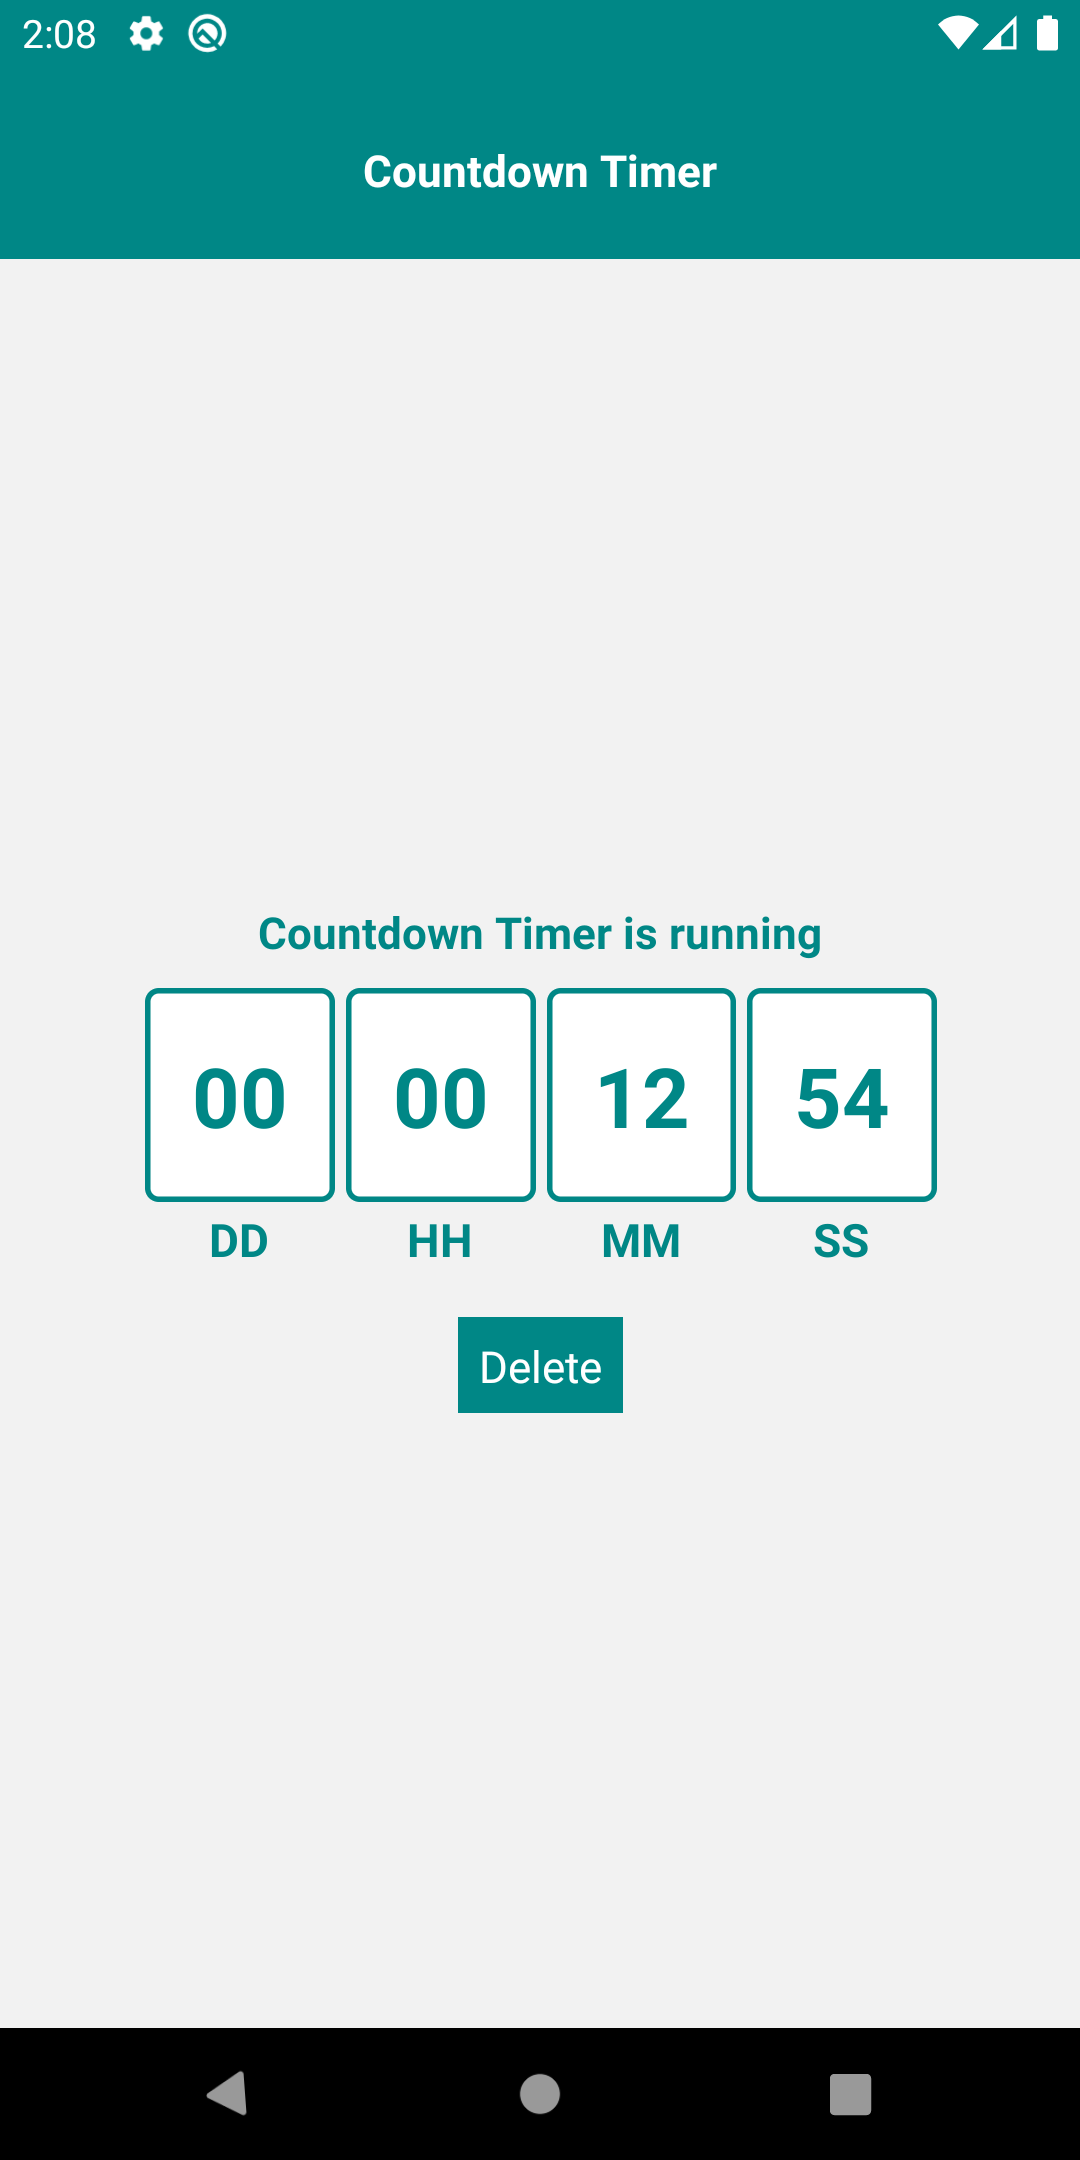
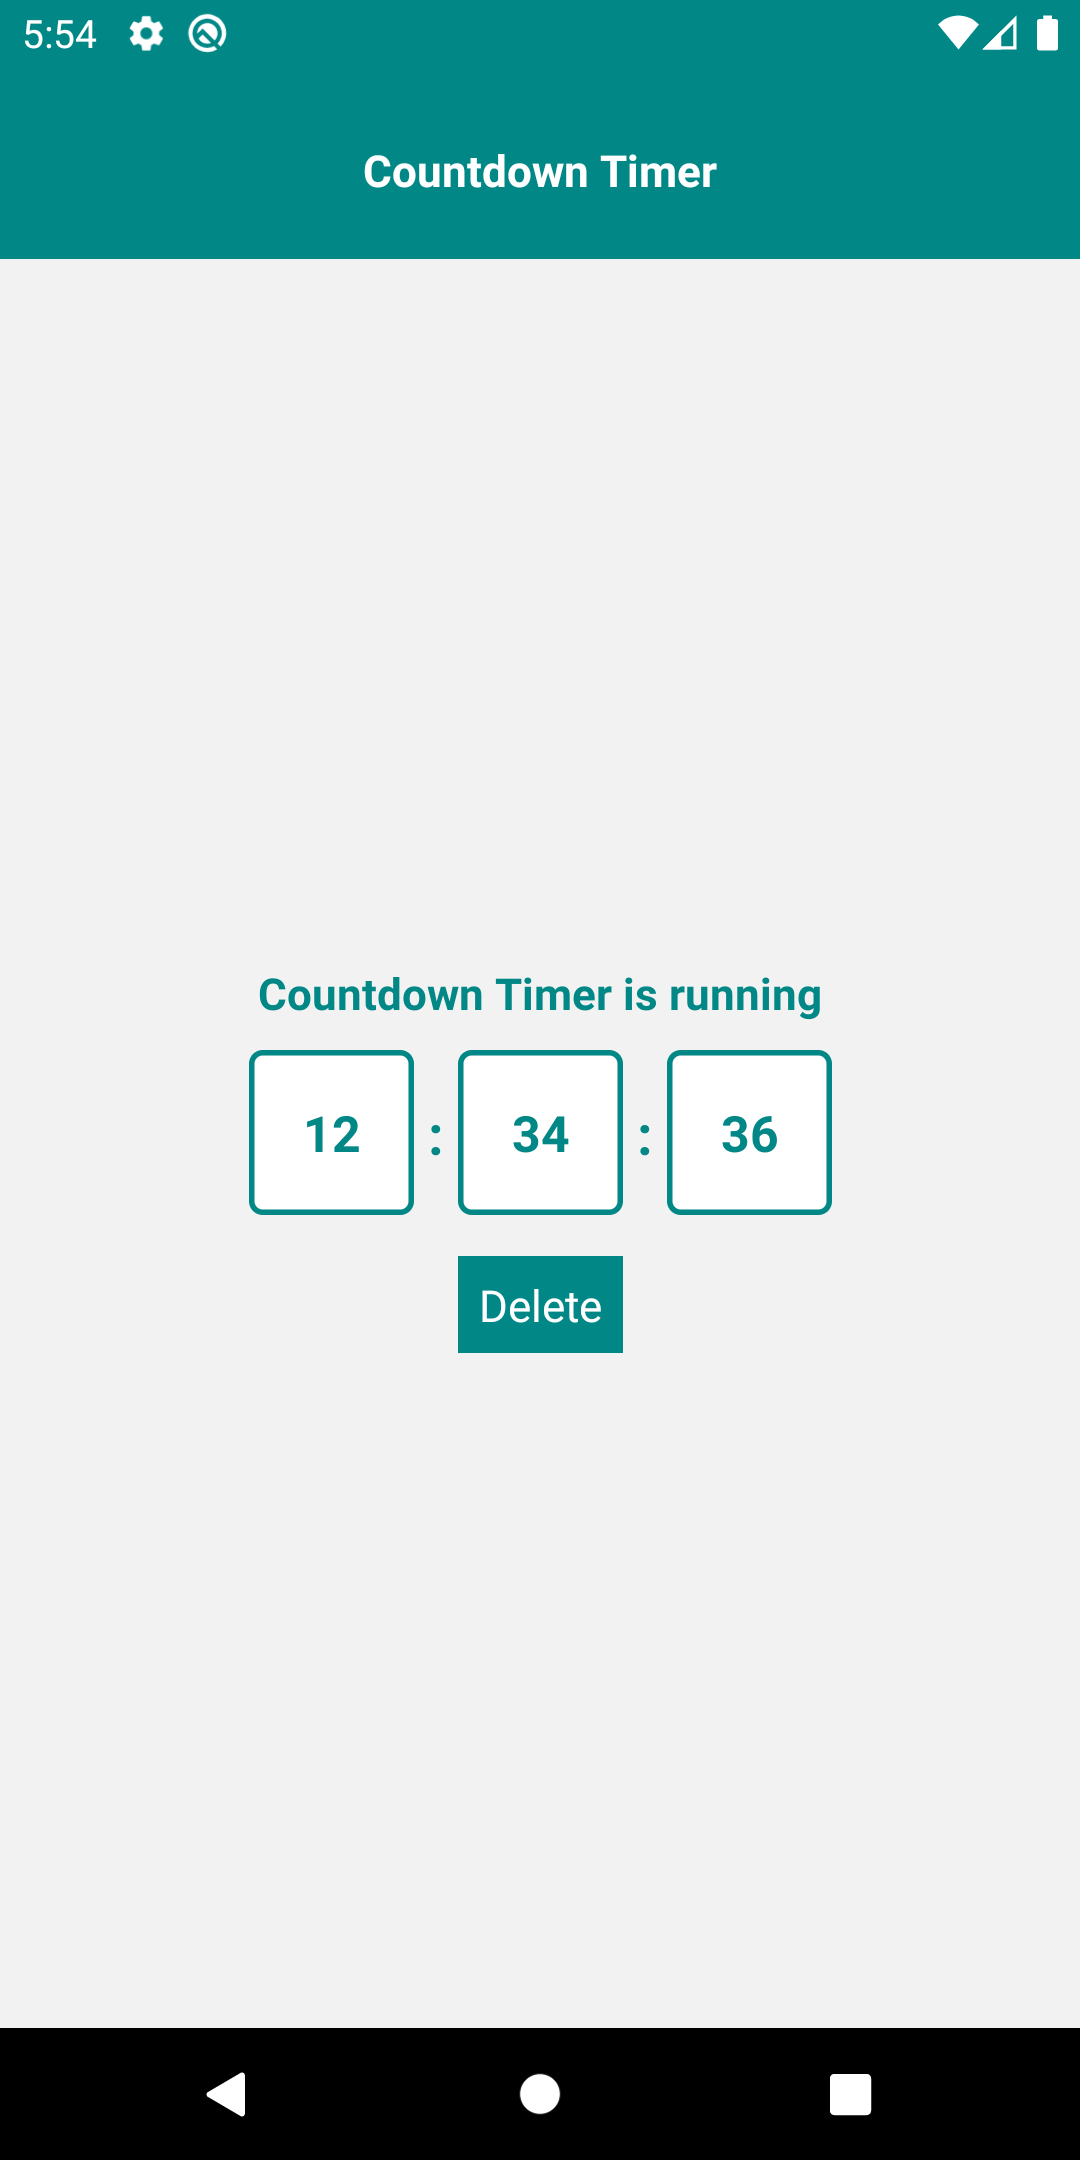
timer issue resolved

diff --git a/scr/screens/timer.js b/scr/screens/timer.js
@@ -9,15 +9,11 @@ import {
 } from 'react-native';
 import AsyncStorage from '@react-native-community/async-storage';
 import {withInAppNotification} from 'react-native-in-app-notification';
-import CountDown from 'react-native-countdown-component';
 
 const TimerScreen = (props) => {
   // const [current, setCurrent] = useState();
   // const [value, setValue] = useState(0);
-  const [time, setTime] = useState(10);
-  // const [sec, setSec] = useState(0);
-  // const [min, setMin] = useState(0);
-  // const [hour, setHour] = useState(0);
+  const [time, setTime] = useState(0);
 
   useEffect(() => {
     const interval = setInterval(timerValue, 1000);
@@ -31,12 +27,10 @@ const TimerScreen = (props) => {
       if (value !== null) {
         const temp = Number(value);
         if (temp > current) {
-          setTime((temp - current) / 1000); // only 1st statement executing
-          // convertHMS();
+          setTime((temp - current) / 1000);
         } else if (temp == current) {
           setTime(0);
-          // Alert.alert('Time up', 'timer is over');
-          // generate notification here.
+          notify();
         } else if (temp < current) {
           deleteTimer();
           props.navigation.replace('Input');
@@ -63,7 +57,7 @@ const TimerScreen = (props) => {
     try {
       props.showNotification({
         title: 'Timeout',
-        message: 'The notification has been triggered',
+        message: 'Your countdown is finished',
       });
     } catch (e) {
       console.log(e.message);
@@ -93,20 +87,30 @@ const TimerScreen = (props) => {
           }}>
           Countdown Timer is running
         </Text>
-        <CountDown
-          until={time} // <-- Time in seconds
-          size={30}
-          onFinish={notify}
-          digitStyle={{
-            backgroundColor: '#fff',
-            borderWidth: 2,
-            borderColor: '#008786',
-          }}
-          digitTxtStyle={{color: '#008786'}}
-          timeToShow={['D', 'H', 'M', 'S']}
-          timeLabels={{d: 'DD', h: 'HH', m: 'MM', s: 'SS'}}
-          timeLabelStyle={{color: '#008786', fontWeight: 'bold'}}
-        />
+        <View
+          style={{
+            alignItems: 'center',
+            justifyContent: 'center',
+            flexDirection: 'row',
+          }}>
+          <View style={styles.view}>
+            <Text style={styles.text}>{Math.floor(time / 3600)}</Text>
+          </View>
+          <Text style={{fontSize: 20, fontWeight: 'bold', color: '#008786'}}>
+            {' '}
+            :{' '}
+          </Text>
+          <View style={styles.view}>
+            <Text style={styles.text}>{Math.floor((time % 3600) / 60)}</Text>
+          </View>
+          <Text style={{fontSize: 20, fontWeight: 'bold', color: '#008786'}}>
+            {' '}
+            :{' '}
+          </Text>
+          <View style={styles.view}>
+            <Text style={styles.text}>{Math.floor((time % 3600) % 60)}</Text>
+          </View>
+        </View>
         <TouchableOpacity
           activeOpacity={0.6}
           style={styles.button}
@@ -126,6 +130,21 @@ const styles = StyleSheet.create({
     backgroundColor: '#008786',
     alignItems: 'center',
     justifyContent: 'center',
+  },
+  view: {
+    alignItems: 'center',
+    justifyContent: 'center',
+    width: 60,
+    height: 60,
+    backgroundColor: '#fff',
+    borderColor: '#008786',
+    borderRadius: 5,
+    borderWidth: 2,
+  },
+  text: {
+    color: '#008786',
+    fontSize: 18,
+    fontWeight: 'bold',
   },
   button: {
     marginHorizontal: 30,

diff --git a/scr/screens/input.js b/scr/screens/input.js
@@ -194,7 +194,7 @@ const styles = StyleSheet.create({
     borderColor: '#008786',
     borderRadius: 5,
     textAlign: 'center',
-    fontSize: 16,
+    fontSize: 18,
     fontWeight: 'bold',
     height: 60,
     borderWidth: 2,
